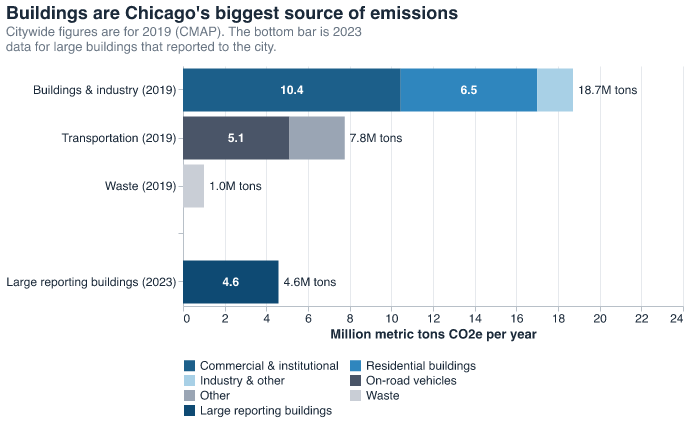
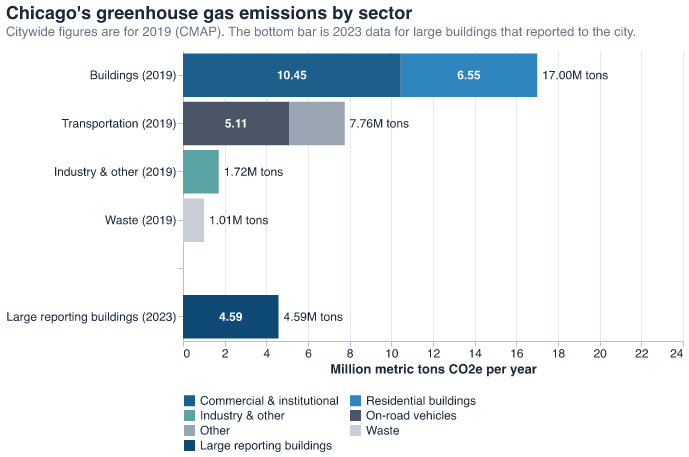
Figure 1 - separate industry and other emissions from buildings total

diff --git a/src/final_graphs.py b/src/final_graphs.py
@@ -189,18 +189,21 @@ SECTOR_CSV = DATA_DIR / "chicago_emissions_by_sector_2019.csv"
 REPORTING_ROW = "Large reporting buildings (2023)"
 # A single space reserves an empty band that separates the 2023 row
 SPACER_ROW = " "
+# Sector rows, largest first
 ROW_LABELS = {
-    "Buildings & stationary energy": "Buildings & industry (2019)",
+    "Buildings": "Buildings (2019)",
     "Transportation": "Transportation (2019)",
+    "Industry & other": "Industry & other (2019)",
     "Waste": "Waste (2019)",
 }
 ROW_ORDER = [*ROW_LABELS.values(), SPACER_ROW, REPORTING_ROW]
 
-# Subsector stack order and colors: blues are buildings, grays are other
+# Subsector stack order and colors: blues are buildings, teal is industry,
+# grays are other
 SUBSECTOR_COLORS = {
     "Commercial & institutional": "#1C5F8A",
     "Residential buildings": "#2F86BE",
-    "Industry & other": "#A8D0E6",
+    "Industry & other": "#5BA4A4",
     "On-road vehicles": "#4A5568",
     "Other": "#9AA5B4",
     "Waste": "#C9CED6",
@@ -209,7 +212,7 @@ SUBSECTOR_COLORS = {
 SUBSECTOR_ORDER = list(SUBSECTOR_COLORS)
 
 SECTOR_CHART_WIDTH = 500
-SECTOR_CHART_HEIGHT = 240
+SECTOR_CHART_HEIGHT = 290
 SECTOR_AXIS_MAX = 24  # Million tons; leaves room for the total labels
 MIN_LABELED_SEGMENT = 3.0  # Smallest segment (million tons) given a label
 
@@ -247,7 +250,7 @@ def make_sector_chart(df):
 
     # Row totals, shown just past the end of each bar
     totals = rows.groupby("row", as_index=False)[SECTOR_VALUE].sum()
-    totals["label"] = totals[SECTOR_VALUE].map("{:.1f}M tons".format)
+    totals["label"] = totals[SECTOR_VALUE].map("{:.2f}M tons".format)
 
     # Only label segments that are wide enough to hold a number
     labeled_segments = rows[rows[SECTOR_VALUE] >= MIN_LABELED_SEGMENT]
@@ -286,7 +289,7 @@ def make_sector_chart(df):
         .encode(
             y=y_rows,
             x=alt.X("segment_middle:Q"),
-            text=alt.Text(f"{SECTOR_VALUE}:Q", format=".1f"),
+            text=alt.Text(f"{SECTOR_VALUE}:Q", format=".2f"),
         )
     )
     total_labels = (
@@ -299,11 +302,11 @@ def make_sector_chart(df):
         width=SECTOR_CHART_WIDTH,
         height=SECTOR_CHART_HEIGHT,
         title=alt.TitleParams(
-            "Buildings are Chicago's biggest source of emissions",
-            subtitle=[
-                "Citywide figures are for 2019 (CMAP). The bottom bar is 2023",
-                "data for large buildings that reported to the city.",
-            ],
+            "Chicago's greenhouse gas emissions by sector",
+            subtitle=(
+                "Citywide figures are for 2019 (CMAP). The bottom bar is 2023 "
+                "data for large buildings that reported to the city."
+            ),
             anchor="start",
         ),
     )
